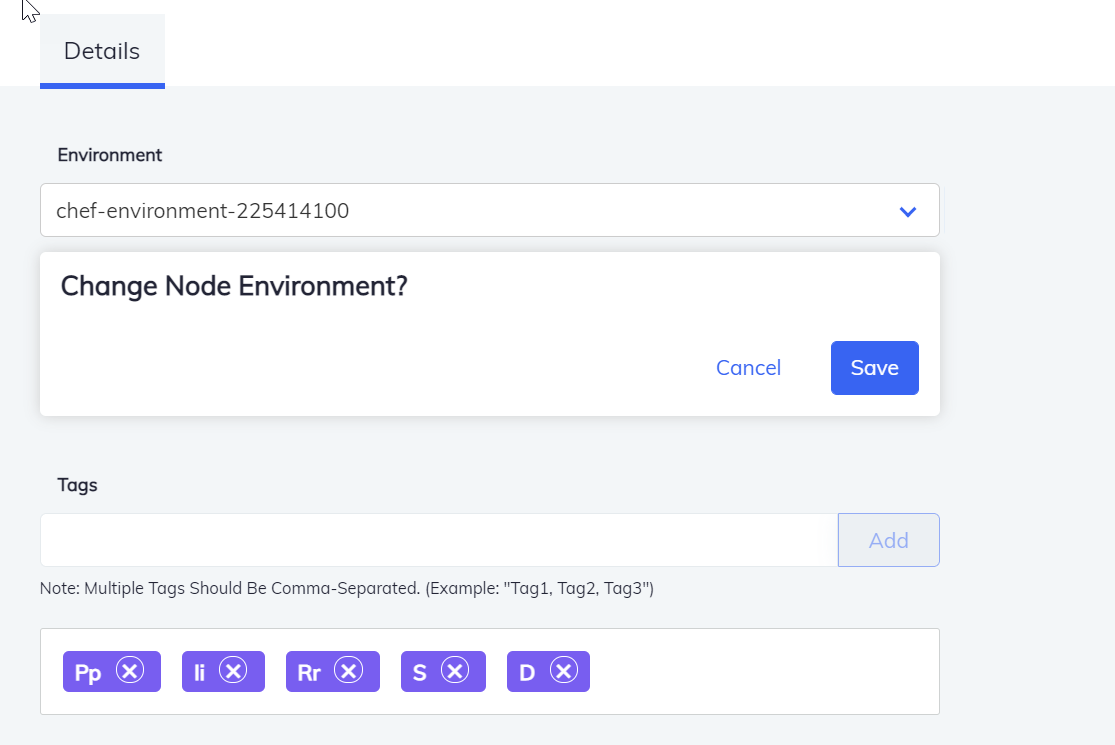
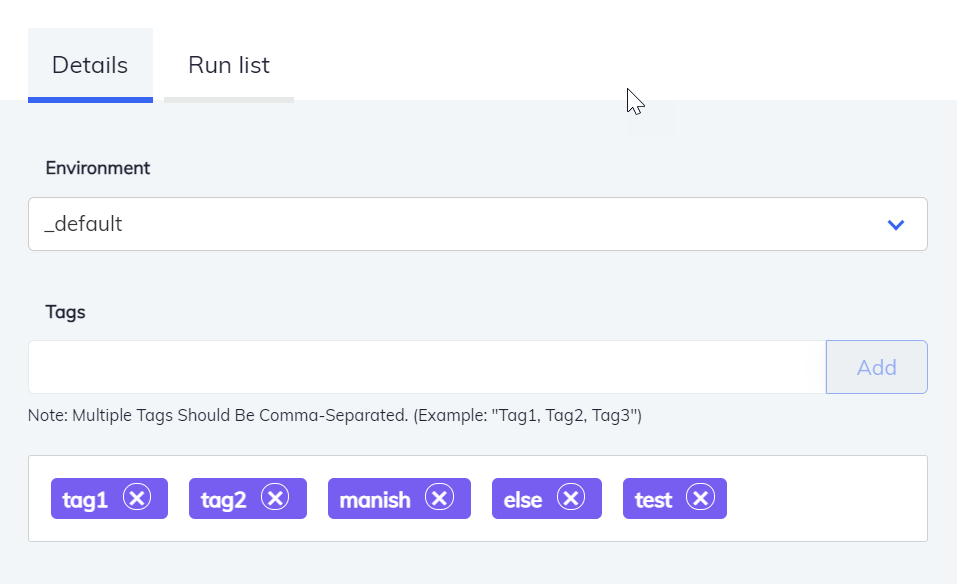
added run list section in the chef infra server

diff --git a/components/docs-chef-io/content/automate/chef_infra_server.md b/components/docs-chef-io/content/automate/chef_infra_server.md
@@ -312,8 +312,8 @@ The Chef Infra Server integration lets you:
 - Search for a specific node from a list of nodes
 - View a list of all the connected nodes
 - Details of a node
+- Edit Run list
 - Manage tags
-- Edit Run list of a node
 - Reset a node key
 - Delete a node
 
@@ -331,7 +331,14 @@ The above information looks like as shown below:
 
 {{< figure src="/images/automate/node-information-metadata.png" alt="Node Information & Metadata">}}
 
-The next section of the page is the details section to view or update the node environment. The drop down menu consists of the list of environment created in the chef server. You can select any one environment for the selected node.
+The next section of the page contains two options:
+
+- Details
+- Run List
+
+##### Details
+
+Details section is to view or update the node environment. The drop down menu consists of the list of environment created in the chef server. You can select any one environment for the selected node.
 
 To select the environment:
 
@@ -344,6 +351,32 @@ To select the environment:
 
 {{< figure src="/images/automate/update-node-environment.png" alt="Update Node Environment">}}
 
+##### Run List
+
+You can edit, expand or collapse the run list of a node.
+
+{{< figure src="/images/automate/run-list-of-a-node.png" alt="Run List of a Node">}}
+
+Chef Infra allows you to edit the run list of a node by following the steps below:
+
+1. Select **edit** option. A popup window opens.
+
+2. The left section the window contains the list of environment of the nodes. Select any one environment from the list.
+
+3. The right section of the window will show the current run list of the selected environment.
+
+4. Select the run list you want for the specific environment and select **Create**.
+
+The popup window looks like as shown below:
+
+{{< figure src="/images/automate/edit-run-list.png" alt="Edit Run List">}}
+
+Chef Infra allows you to edit the run list of a node using a shortcut. Select the option **Edit Run List** from the ellipses icon of the specific node in the node list. Selecting the option will open the same popup window which can be used to edit the run list of a node.
+
+The ellipses icon list looks like:
+
+{{< figure src="/images/automate/edit-run-list-ellipses-icon.png" alt="Edit Run List Ellipses Icon">}}
+
 #### Manage Tags
 
 Chef Infra allows you to manage tags of the environment. You can add or remove multiple tags by:
@@ -353,8 +386,6 @@ Chef Infra allows you to manage tags of the environment. You can add or remove m
 - OR, by simply selecting the **Manage Tags** option in the ellipses icon of a specific node. Selecting the Manage Tags option from the ellipses icon opens a popup window, where you can add multiple tags and click **Update Tags**. The popup window looks like as shown below:
 
 {{< figure src="/images/automate/manage-tags-from-ellipses-icon.png" alt="Manage Tags">}}
-
-#### Edit Run list of a Node
 
 #### Reset a Node Key
 
